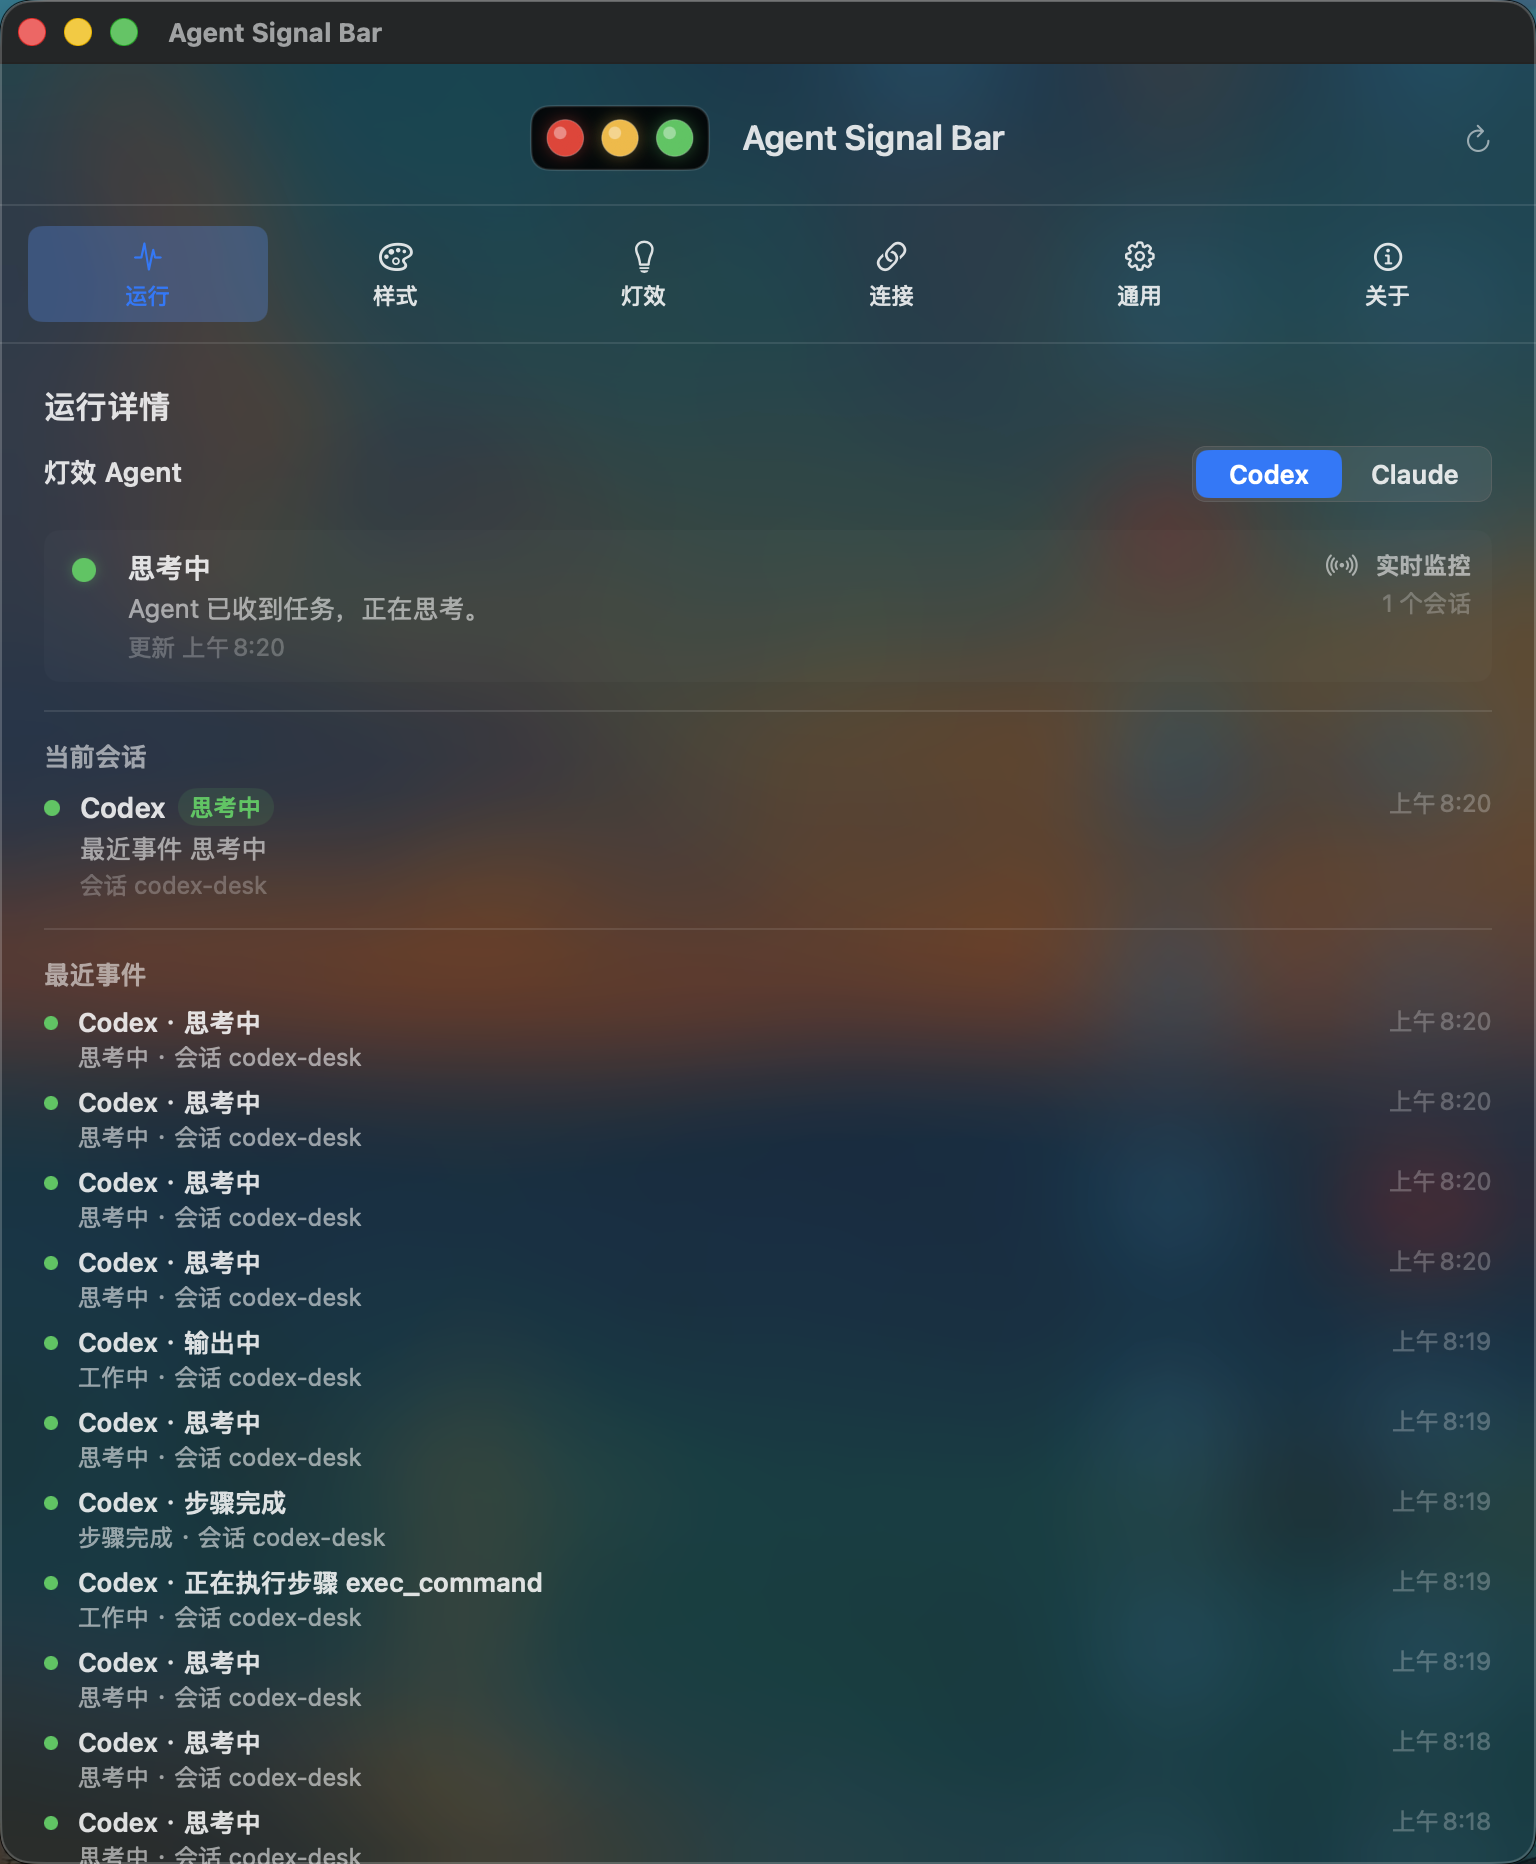
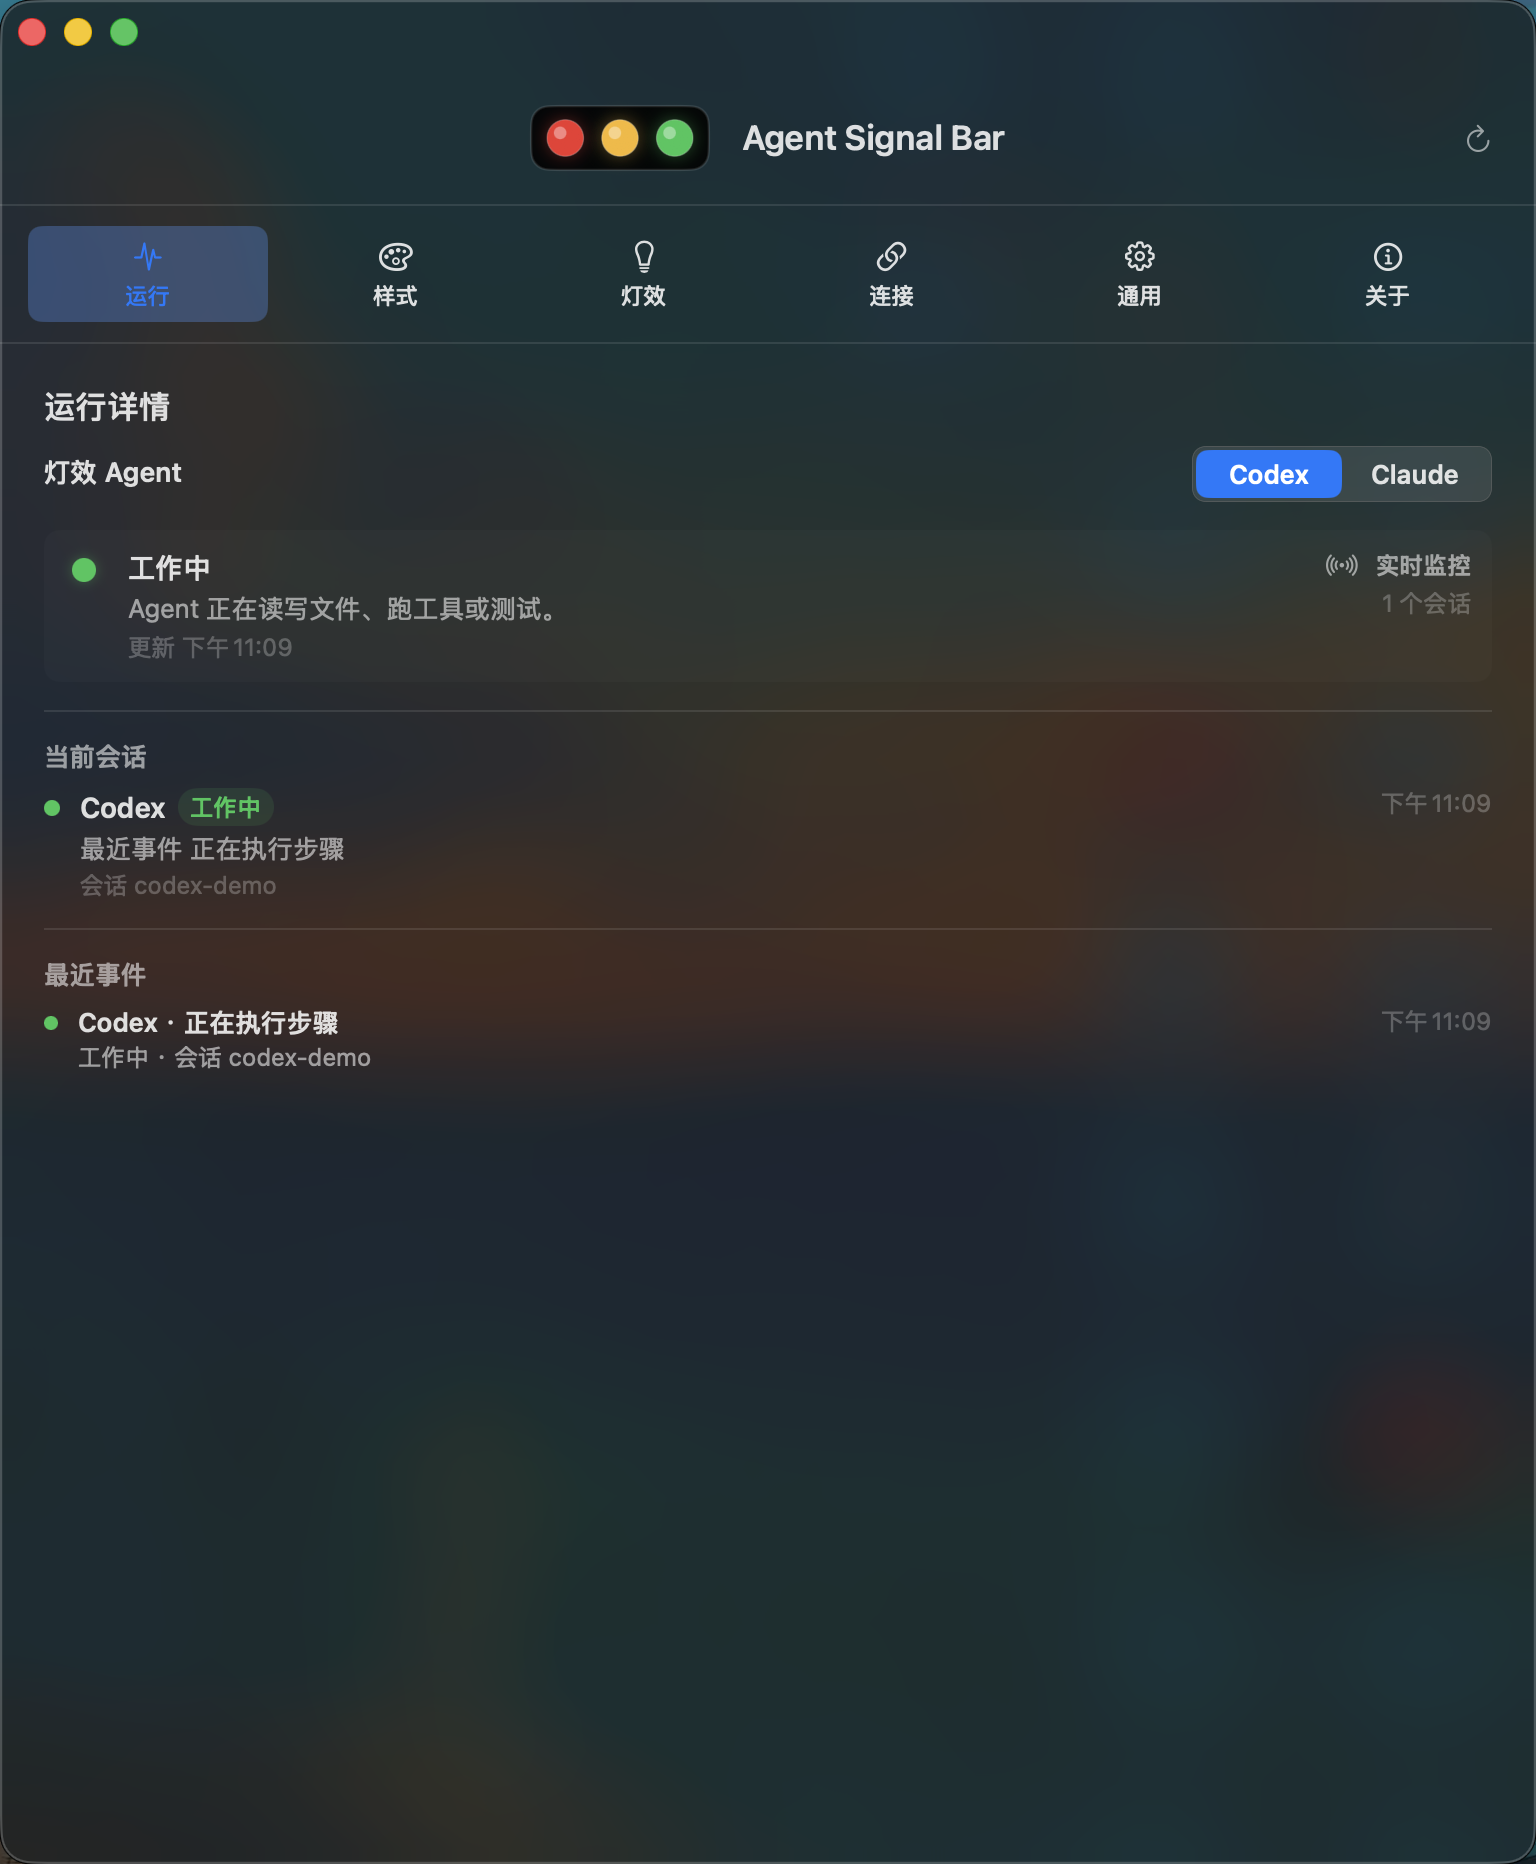
Update Liquid Glass README screenshots

diff --git a/README.md b/README.md
@@ -63,15 +63,15 @@ Click the menu bar signal light to open a compact panel with the current status,
 <table>
   <tr>
     <td align="center"><strong>Without Liquid Glass</strong></td>
-    <td align="center"><strong>Standard Liquid Glass</strong></td>
+    <td align="center"><strong>Default Liquid Glass</strong></td>
   </tr>
   <tr>
     <td><img src="docs/assets/settings-solid-en.png" alt="Agent Signal Bar settings window Activity page without Liquid Glass" width="420"></td>
-    <td><img src="docs/assets/settings-glass-en.png" alt="Agent Signal Bar settings window Activity page with the standard Liquid Glass effect" width="420"></td>
+    <td><img src="docs/assets/settings-glass-en.png" alt="Agent Signal Bar settings window Activity page with the default reduced Liquid Glass effect" width="420"></td>
   </tr>
 </table>
 
-Both images are real screen-region screenshots of the Activity page. The left image shows the normal solid settings window, while the right image shows the standard Liquid Glass style with the desktop background participating in the window material. Liquid Glass is on by default at reduced strength and can be adjusted in `General > Liquid glass`.
+Both images are real screen-region screenshots of the Activity page. The left image shows the normal solid settings window, while the right image shows the default reduced Liquid Glass style with the desktop background participating in the window material. Liquid Glass is on by default at reduced strength and can be adjusted in `General > Liquid glass`.
 
 ## Features
 